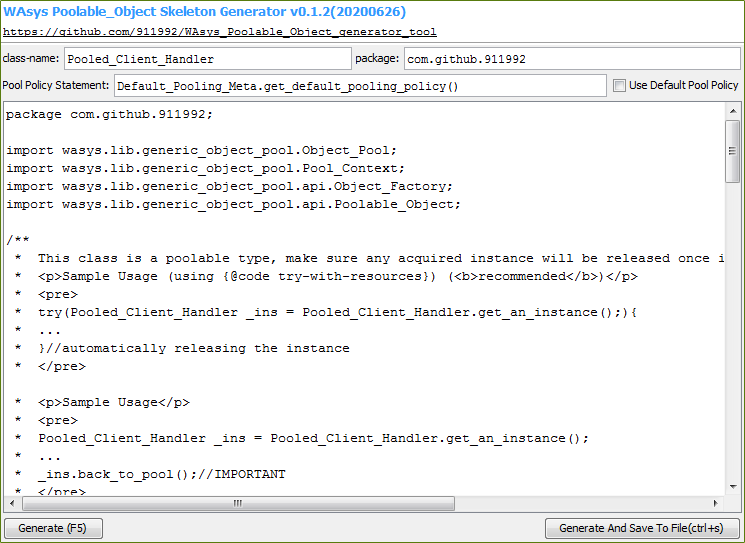
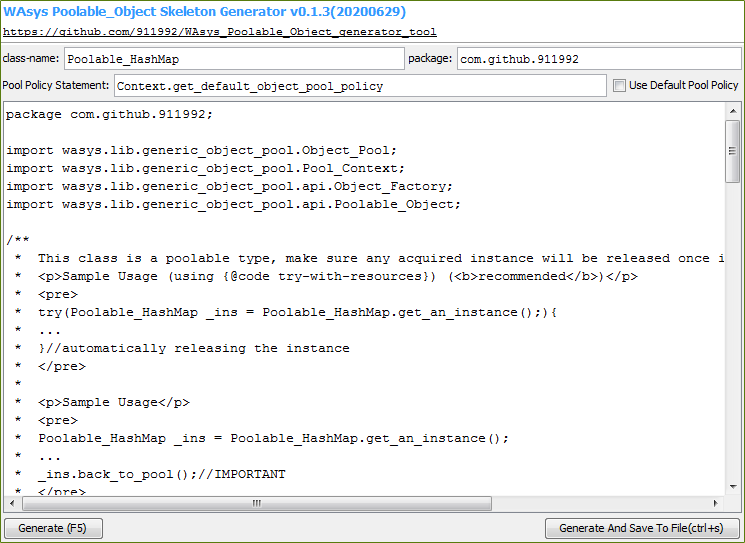
v0.1.3 (20200629)
Majors:
• Fixed the bad blank line of generated type javadoc

diff --git a/src/main/java/wasys/lib/generic_object_pool/entity_tool/meta/WAsys_Project_Info.java b/src/main/java/wasys/lib/generic_object_pool/entity_tool/meta/WAsys_Project_Info.java
@@ -10,6 +10,9 @@ Created on: Jun 25, 2020 12:56:11 PM
     @author https://github.com/911992
  
 History:
+    0.1.3 (20200626)
+        • Updated PROJECT_VERSION, and PROJECT_BUILD fields
+
     0.1.2 (20200626)
         • Updated PROJECT_VERSION, and PROJECT_BUILD fields
 
@@ -28,8 +31,8 @@ package wasys.lib.generic_object_pool.entity_tool.meta;
  */
 public class WAsys_Project_Info {
     public static final String PROJECT_REPO="https://github.com/911992/WAsys_Poolable_Object_generator_tool";
-    public static final String PROJECT_VERSION="0.1.2";
-    public static final String PROJECT_BUILD="20200626";
+    public static final String PROJECT_VERSION="0.1.3";
+    public static final String PROJECT_BUILD="20200629";
     public static final String PROJECT_NAME="WAsys Poolable_Object Skeleton Generator";
     public static final String PROJECT_DESC="Simple tool for making skeleton of Poolable_Object (WAsys_simple_generic_object_pool) entities";
     private WAsys_Project_Info(){}

diff --git a/src/main/java/wasys/lib/generic_object_pool/entity_tool/Type_Generator.java b/src/main/java/wasys/lib/generic_object_pool/entity_tool/Type_Generator.java
@@ -10,6 +10,9 @@ Created on: Jun 25, 2020 12:22:59 PM
     @author https://github.com/911992
  
 History:
+    0.1.3 (20200629)
+        • Fixed the bad blank line of generated type javadoc
+
     0.1.2 (20200626)
         • Fixed the issue, about missed import for type Generic_Object_Pool_Policy when defailt pool policy statement is asked
 
@@ -134,7 +137,8 @@ public class Type_Generator {
         _out.printf(" *  try(%s _ins = %s.%s();){\n",arg_type_name,arg_type_name,NEW_INSTANCE_FUNC_NAME);
         _out.printf(" *  ...\n");
         _out.printf(" *  }//automatically releasing the instance\n");
-        _out.printf(" *  </pre>\n\n");
+        _out.printf(" *  </pre>\n");
+        _out.printf(" *  \n");
         _out.printf(" *  <p>Sample Usage</p>\n");
         _out.printf(" *  <pre>\n");
         _out.printf(" *  %s _ins = %s.%s();\n",arg_type_name,arg_type_name,NEW_INSTANCE_FUNC_NAME);

diff --git a/release_note.md b/release_note.md
@@ -4,6 +4,20 @@ repo: https://github.com/911992/WAsys_Poolable_Object_generator_tool
 Author: [911992](https://github.com/911992)  
 *(NOTE: following list carries mentionable(not all) changes. For detailed changes, check source code(s))*  
 
+**0.1.3** (Jun 29, 2020) 
+
+0. Fixed the issue about blank line of generated type javadoc
+1. `Source_Code::Type_Generator.java`  
+    * Fixed the bad blank line of generated type javadoc
+2. `Source_Code::WAsys_Project_Info.java`
+    * Updated `PROJECT_VERSION`, and `PROJECT_BUILD` fields
+3. Repo
+    * Updated `pom.xml` file
+        * Chnaged the artifact to version `0.1.3`
+    * Updated the [graphical interface screenshot](./_docs/_images/graphical_interface_sample.png)
+
+<hr/>
+
 **0.1.2** (Jun 26, 2020) 
 
 0. Fixed the issue about missed import for `Generic_Object_Pool_Policy`

diff --git a/README.md b/README.md
@@ -7,7 +7,7 @@ Simple tool for making skeleton of `Poolable_Object` [WAsys_simple_generic_objec
 *diagram 0: social media vector*
 
 ## Revision History
-Latest: v0.1.2 (Jun 26, 2020)  
+Latest: v0.1.3 (Jun 29, 2020)  
 
 Please refer to [release_note.md](./release_note.md) file  
 
